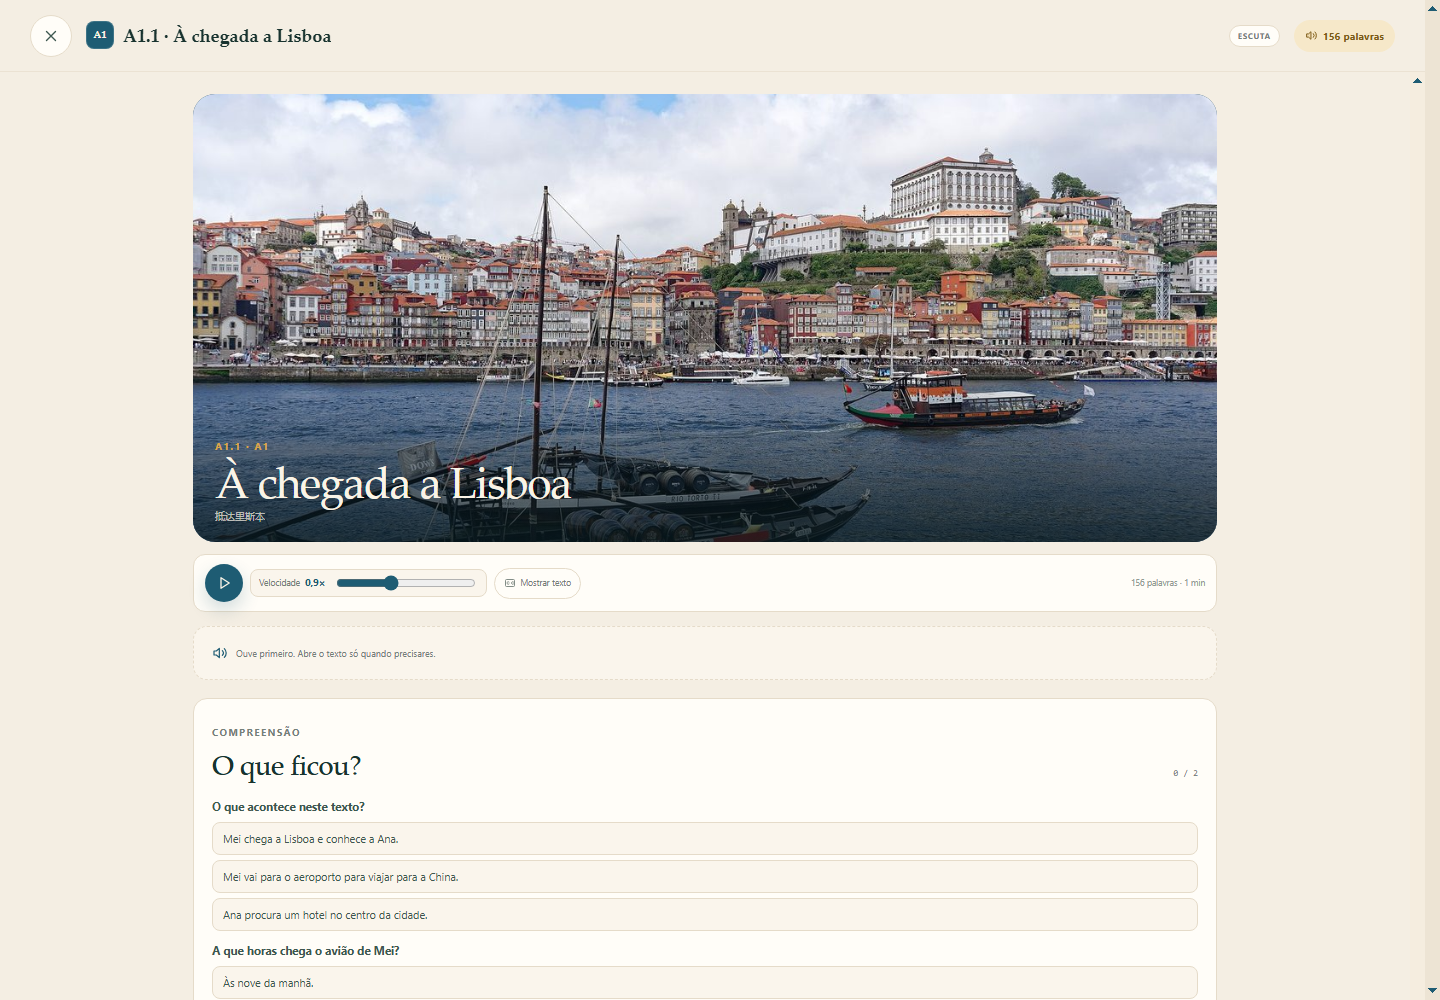
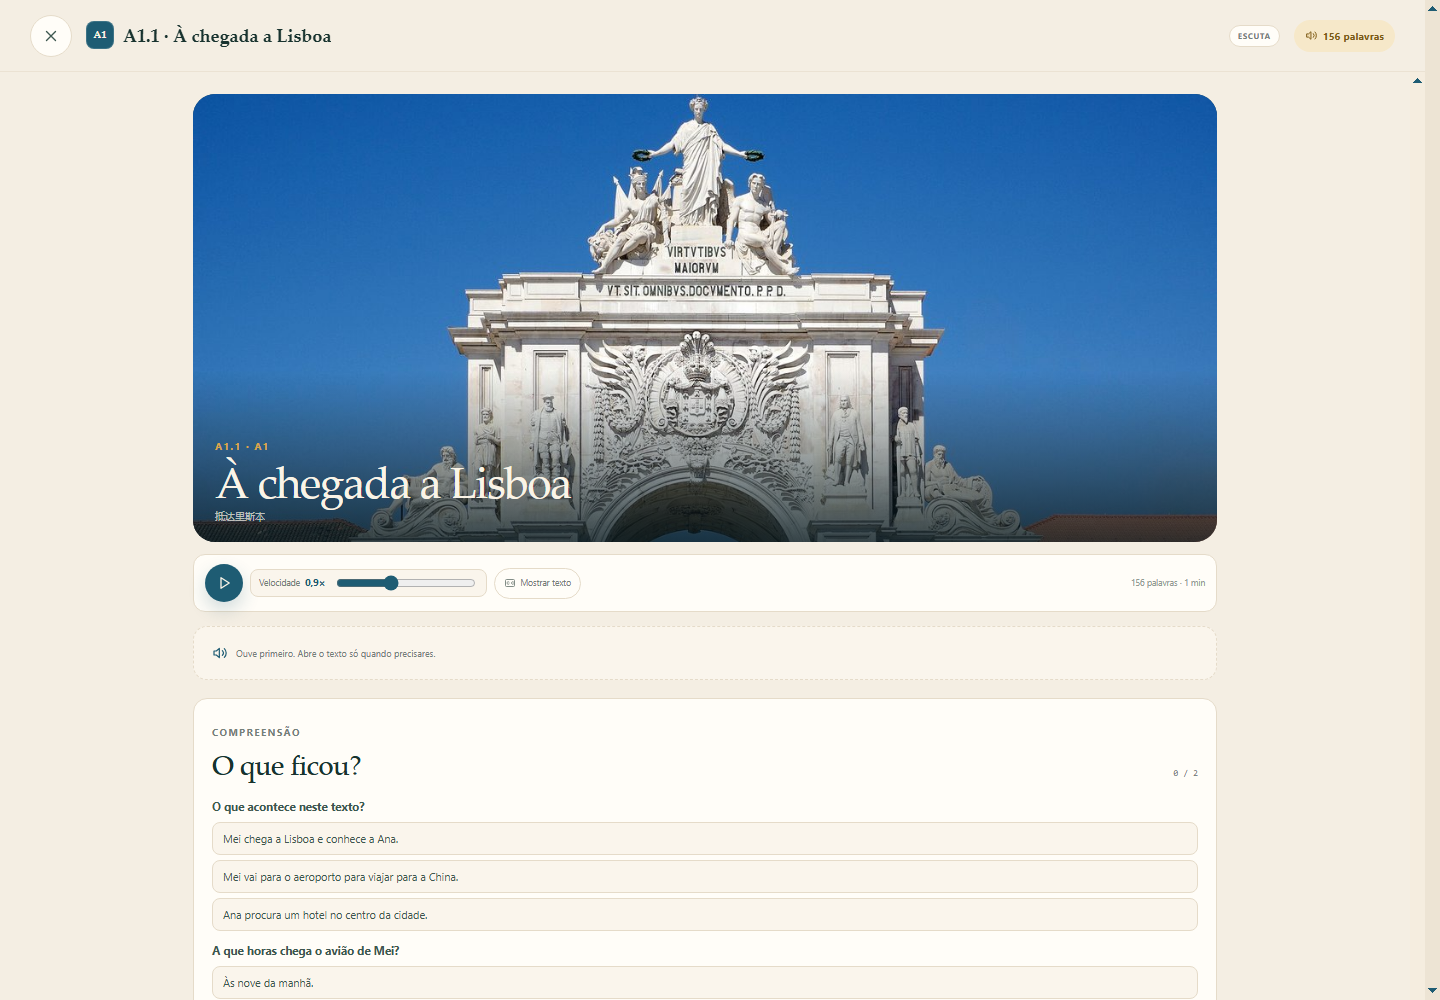
Use Lisbon-only photos and fix readability

Changed region(s): [[0.125, 0.093, 0.8438, 0.558]]

diff --git a/js/app.js b/js/app.js
@@ -11,7 +11,7 @@
   const RESOURCES = window.AZ_RESOURCES || [];
   const STORAGE_KEY = 'azulejo.state.v1';
   const VERSION_KEY = 'azulejo.version.seen';
-  const APP_VERSION = '2.1.1';
+  const APP_VERSION = '2.1.2';
   const XP_PER_LEVEL = 120;
   const LEVEL_TITLES = ['Curioso', 'Viajante', 'Conversador', 'Lisboeta', 'Contador de histórias', 'Alma portuguesa'];
 
@@ -1269,17 +1269,17 @@
   }
 
   const READING_PHOTOS = {
-    cafe: { src: 'assets/photos/cafe.jpg', alt: 'Pastéis de nata numa pastelaria portuguesa', credit: 'Claude Truong-Ngoc · CC BY-SA 3.0' },
+    cafe: { src: 'assets/photos/cafe.jpg', alt: 'Pastéis de Belém em Lisboa', credit: 'Yusuke Kawasaki · CC BY 2.0' },
     market: { src: 'assets/photos/market.jpg', alt: 'Mercado da Ribeira em Lisboa', credit: 'Simon Burchell · CC BY-SA 4.0' },
     clinic: { src: 'assets/photos/pharmacy.jpg', alt: 'Museu da Farmácia em Lisboa', credit: 'Jorge Franganillo · CC BY 2.0' },
-    office: { src: 'assets/photos/coimbra.jpg', alt: 'Universidade de Coimbra', credit: 'Alvesgaspar · CC BY-SA 3.0' },
-    meeting: { src: 'assets/photos/coimbra.jpg', alt: 'Universidade de Coimbra', credit: 'Alvesgaspar · CC BY-SA 3.0' },
-    bookshop: { src: 'assets/photos/bookshop.jpg', alt: 'Livraria Lello no Porto', credit: 'Birte Fritsch · CC BY 2.0' },
+    office: { src: 'assets/photos/office.jpg', alt: 'Parque das Nações, zona de escritórios em Lisboa', credit: 'Jules Verne Times Two · CC BY-SA 4.0' },
+    meeting: { src: 'assets/photos/meeting.jpg', alt: 'Assembleia da República em Lisboa', credit: 'MarcoMileu · CC BY-SA 3.0' },
+    bookshop: { src: 'assets/photos/bookshop.jpg', alt: 'Livraria Bertrand no Chiado, Lisboa', credit: 'Hugo Ferreira · CC BY-SA 4.0' },
     station: { src: 'assets/photos/tram.jpg', alt: 'Elétrico 28 em Lisboa', credit: 'Jules Verne Times Two · CC BY-SA 4.0' },
-    coast: { src: 'assets/photos/ribeira.jpg', alt: 'Ribeira do Porto e o rio Douro', credit: 'Jakub Hałun · CC BY 4.0' },
+    coast: { src: 'assets/photos/coast.jpg', alt: 'Torre de Belém e o Tejo, Lisboa', credit: 'Alvesgaspar · CC BY-SA 3.0' },
     culture: { src: 'assets/photos/fado.jpg', alt: 'Fado numa casa de fados em Lisboa', credit: 'Vernaccia · CC BY 2.0' },
     home: { src: 'assets/photos/azulejo.jpg', alt: 'Fachada com azulejos em Lisboa', credit: 'NorbertNagel · CC BY-SA 4.0' },
-    studio: { src: 'assets/photos/ribeira.jpg', alt: 'Ribeira do Porto e o rio Douro', credit: 'Jakub Hałun · CC BY 4.0' }
+    studio: { src: 'assets/photos/studio.jpg', alt: 'Praça do Comércio em Lisboa', credit: 'Berthold Werner · CC BY-SA 4.0' }
   };
 
   function readingPhoto(scene) {

diff --git a/sw.js b/sw.js
@@ -1,5 +1,5 @@
 /* Azulejo service worker — offline-first after the first visit. */
-const CACHE = 'azulejo-v2.1.1';
+const CACHE = 'azulejo-v2.1.2';
 const CORE = [
   './',
   './index.html',
@@ -19,11 +19,13 @@ const CORE = [
   './assets/photos/azulejo.jpg',
   './assets/photos/bookshop.jpg',
   './assets/photos/cafe.jpg',
-  './assets/photos/coimbra.jpg',
+  './assets/photos/coast.jpg',
   './assets/photos/fado.jpg',
   './assets/photos/market.jpg',
+  './assets/photos/meeting.jpg',
+  './assets/photos/office.jpg',
   './assets/photos/pharmacy.jpg',
-  './assets/photos/ribeira.jpg',
+  './assets/photos/studio.jpg',
   './assets/photos/tram.jpg'
 ];
 

diff --git a/index.html b/index.html
@@ -4,7 +4,7 @@
   <meta charset="utf-8">
   <meta name="viewport" content="width=device-width, initial-scale=1, viewport-fit=cover">
   <meta name="theme-color" content="#123f53">
-  <meta name="app-version" content="2.1.1">
+  <meta name="app-version" content="2.1.2">
   <meta name="description" content="Azulejo — 从 A1 到 C2 的欧洲葡萄牙语（pt-PT）学习应用：每级 30 节课，共 180 节；12 个情景视频与音频对话、210 个中英葡法西五语词汇、间隔复习与文化阅读。">
   <title>Azulejo · Aprender português europeu</title>
   <link rel="manifest" href="manifest.webmanifest">

diff --git a/assets/photos/CREDITS.md b/assets/photos/CREDITS.md
@@ -1,17 +1,19 @@
 # Photo credits
 
-The reading illustrations in `assets/photos/` are real photographs of Portugal, downloaded from Wikimedia Commons and cropped to 1200 × 675 for the app. Each file keeps its original license and requires attribution when reused.
+All reading photographs are from **Lisbon** (or the Lisbon city area). They were downloaded from Wikimedia Commons and cropped to 1200 × 675 for the app. Each file keeps its original license and requires attribution when reused.
 
-| File | Original | Author | License | Source |
-|---|---|---|---|---|
-| `cafe.jpg` | Pastel de nata septembre 2015 | Claude Truong-Ngoc | CC BY-SA 3.0 | https://commons.wikimedia.org/wiki/File:Pastel_de_nata_septembre_2015.jpg |
-| `tram.jpg` | Number 28 tram, Calçada de São Francisco, Lisbon | Jules Verne Times Two | CC BY-SA 4.0 | https://commons.wikimedia.org/wiki/File:Number_28_tram,_Cal%C3%A7ada_de_S%C3%A3o_Francisco,_Lisbon,_Portugal_julesvernex2.jpg |
-| `market.jpg` | Mercado da Ribeira, Lisbon 01 | Simon Burchell | CC BY-SA 4.0 | https://commons.wikimedia.org/wiki/File:Mercado_da_Ribeira,_Lisbon_01.jpg |
-| `bookshop.jpg` | Livraria Lello — Livraria Chardron — Porto (2) | Birte Fritsch | CC BY 2.0 | https://commons.wikimedia.org/wiki/File:Livraria_Lello_-_Livraria_Chardron_-_Porto_(2)_(52435823629).jpg |
-| `ribeira.jpg` | Rabelo boats and Ribeira seen from Cais de Gaia | Jakub Hałun | CC BY 4.0 | https://commons.wikimedia.org/wiki/File:Rabelo_boats_and_Ribeira_seen_from_Cais_de_Gaia,_20250605_1623_9879.jpg |
-| `fado.jpg` | Lisbon. Fado at A Baiuca | Vernaccia | CC BY 2.0 | https://commons.wikimedia.org/wiki/File:Lisbon._Fado_at_A_Baiuca._(41223895034).jpg |
-| `coimbra.jpg` | Coimbra December 2011-1 | Alvesgaspar | CC BY-SA 3.0 | https://commons.wikimedia.org/wiki/File:Coimbra_December_2011-1.jpg |
-| `azulejo.jpg` | Azulejo facade in Rua de São Bento — Lisbon | NorbertNagel | CC BY-SA 4.0 | https://commons.wikimedia.org/wiki/File:Azulejo_facade_in_Rua_de_S%C3%A3o_Bento_-_Lisbon_-_Portugal.jpg |
-| `pharmacy.jpg` | Lisboa — Museu da Farmácia | Jorge Franganillo | CC BY 2.0 | https://commons.wikimedia.org/wiki/File:Lisboa_-_Museu_da_Farm%C3%A1cia_(53898924153).jpg |
+| File | Lisbon subject | Original | Author | License | Source |
+|---|---|---|---|---|---|
+| `cafe.jpg` | Pastéis de Belém | Pastel de Nata Pastéis de Belém (3780458880) | Yusuke Kawasaki | CC BY 2.0 | https://commons.wikimedia.org/wiki/File:Pastel_de_Nata_Past%C3%A9is_de_Bel%C3%A9m_(3780458880).jpg |
+| `tram.jpg` | Elétrico 28, Calçada de São Francisco | Number 28 tram, Calçada de São Francisco, Lisbon | Jules Verne Times Two | CC BY-SA 4.0 | https://commons.wikimedia.org/wiki/File:Number_28_tram,_Cal%C3%A7ada_de_S%C3%A3o_Francisco,_Lisbon,_Portugal_julesvernex2.jpg |
+| `market.jpg` | Mercado da Ribeira | Mercado da Ribeira, Lisbon 01 | Simon Burchell | CC BY-SA 4.0 | https://commons.wikimedia.org/wiki/File:Mercado_da_Ribeira,_Lisbon_01.jpg |
+| `bookshop.jpg` | Livraria Bertrand, Chiado | Bertrand Chiado (1) | Hugo Ferreira | CC BY-SA 4.0 | https://commons.wikimedia.org/wiki/File:Bertrand_Chiado_(1).jpg |
+| `office.jpg` | Parque das Nações | Gabriel walking in Campus de Justiça de Lisboa, Parque das Nações | Jules Verne Times Two | CC BY-SA 4.0 | https://commons.wikimedia.org/wiki/File:Gabriel_walking_in_Campus_de_Justi%C3%A7a_de_Lisboa,_Parque_das_Na%C3%A7%C3%B5es,_Lisbon,_Portugal_julesvernex2-2.jpg |
+| `meeting.jpg` | Assembleia da República | Assembleia da República, Lisboa | MarcoMileu | CC BY-SA 3.0 | https://commons.wikimedia.org/wiki/File:Assembleia_da_Rep%C3%BAblica,_Lisboa_-_panoramio.jpg |
+| `coast.jpg` | Torre de Belém e o Tejo | Torre Belém April 2009-4a | Alvesgaspar | CC BY-SA 3.0 | https://commons.wikimedia.org/wiki/File:Torre_Bel%C3%A9m_April_2009-4a.jpg |
+| `fado.jpg` | Fado at A Baiuca | Lisbon. Fado at A Baiuca | Vernaccia | CC BY 2.0 | https://commons.wikimedia.org/wiki/File:Lisbon._Fado_at_A_Baiuca._(41223895034).jpg |
+| `azulejo.jpg` | Azulejo facade, Rua de São Bento | Azulejo facade in Rua de São Bento — Lisbon | NorbertNagel | CC BY-SA 4.0 | https://commons.wikimedia.org/wiki/File:Azulejo_facade_in_Rua_de_S%C3%A3o_Bento_-_Lisbon_-_Portugal.jpg |
+| `pharmacy.jpg` | Museu da Farmácia | Lisboa — Museu da Farmácia | Jorge Franganillo | CC BY 2.0 | https://commons.wikimedia.org/wiki/File:Lisboa_-_Museu_da_Farm%C3%A1cia_(53898924153).jpg |
+| `studio.jpg` | Praça do Comércio | Lisbon Praça do Comércio BW 2018-10-03 13-33-44 | Berthold Werner | CC BY-SA 4.0 | https://commons.wikimedia.org/wiki/File:Lisbon_Pra%C3%A7a_do_Com%C3%A9rcio_BW_2018-10-03_13-33-44.jpg |
 
 No photo is claimed as original Azulejo artwork. If you republish the repository, keep this file and the license notices.

diff --git a/README.md b/README.md
@@ -56,7 +56,7 @@ PT-PT 外部资源入口：
 - **独立阅读入口**：顶部「阅读」栏目按 A1–C2 列出全部 180 个阅读场景，点击卡片直接跳到该课的阅读步骤，不需要先过单词和语法。
 - **每级 10 篇听力**：编号独立为 `A1.1`–`A1.10`、`B1.1`–`B1.10`，共 60 篇；场景各不相同，支持 `0,6×–1,4×` 滑杆调速（播放中改速会从新速度重播），进度按单篇记录。
 - **短剧配音**：6 个视频场景支持字幕、逐句录音、回放、发音匹配和语速评分；分数单独保存在对应场景。
-- **课文真实照片**：阅读页按场景显示 1 幅葡萄牙真实照片（里斯本电车、蛋挞、Ribeira、Lello 书店、法朵、科英布拉等），照片来自 Wikimedia Commons，授权与作者见 [assets/photos/CREDITS.md](assets/photos/CREDITS.md)。
+- **课文真实照片**：阅读页按场景显示 1 幅**里斯本**真实照片（28 路电车、Pastéis de Belém、Mercado da Ribeira、Bertrand Chiado、Parque das Nações、Assembleia da República、Torre de Belém、法朵、azulejo 外墙、药物博物馆、Praça do Comércio）。全部来自 Wikimedia Commons，授权与作者见 [assets/photos/CREDITS.md](assets/photos/CREDITS.md)。
 
 ![独立阅读入口](screenshots/reading.png)
 
@@ -122,7 +122,7 @@ Node.js 仅用于启动静态服务器，应用本身没有构建步骤、没有
 
 ## 版本号与更新提示
 
-当前版本：**v2.1.1**。
+当前版本：**v2.1.2**。
 
 - 顶栏、侧栏底部和「设置」里都会显示当前版本号。
 - 当本地记录的版本号与 `APP_VERSION` 不一致时，打开应用会弹出 `Azulejo atualizado para vX.Y.Z` 提示。

diff --git a/CHANGELOG.md b/CHANGELOG.md
@@ -1,5 +1,12 @@
 # Changelog
 
+## 2.1.2 — 2026-11-20
+
+- Replaced the Porto/Coimbra photos with Lisbon-only subjects: Bertrand Chiado, Parque das Nações, Assembleia da República, Torre de Belém and Praça do Comércio.
+- Replaced the generic custard-tart photo with Pastéis de Belém.
+- All 11 reading photos are now Lisbon or Lisbon-area and thematically distinct.
+- Bumped the service worker cache to `azulejo-v2.1.2`.
+
 ## 2.1.1 — 2026-11-19
 
 - Listening speed is now a slider; changing it while playing restarts at the new speed instead of pausing silently.
